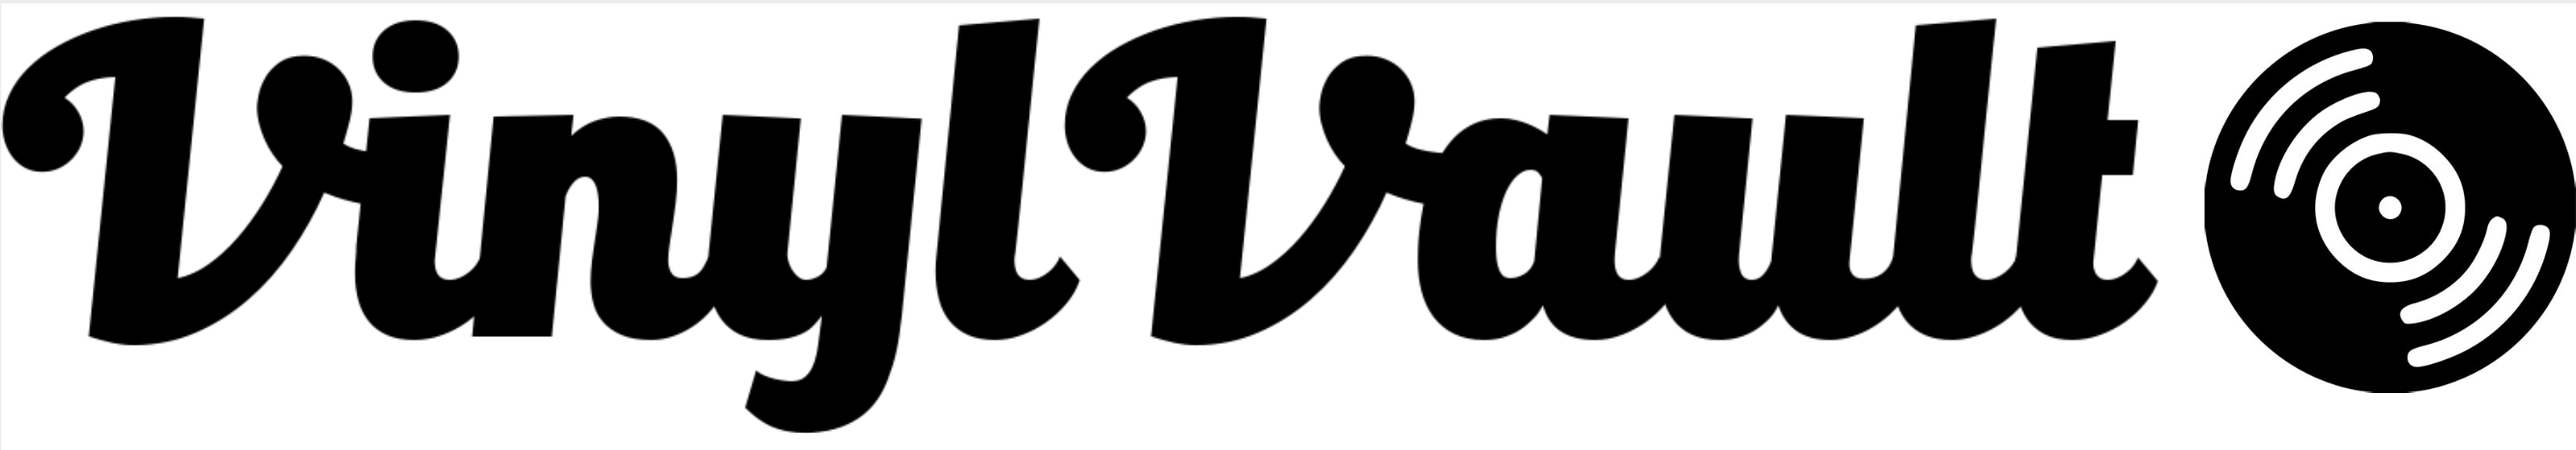
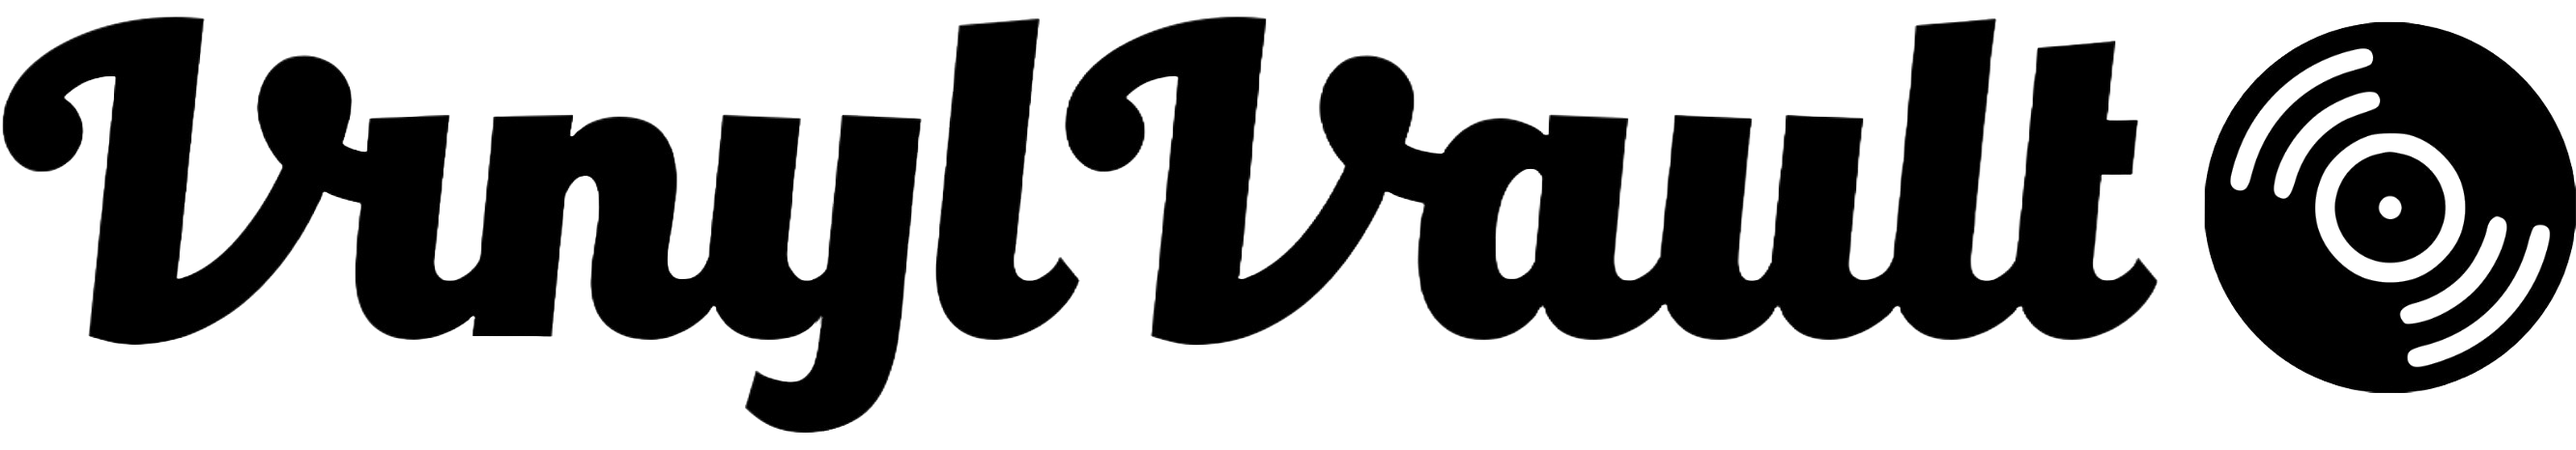
Kept initial background on image for README

Changed region(s): [[0.1245, 0.03, 0.1868, 0.2103], [0.0311, 0.7511, 0.0623, 0.7811]]

diff --git a/README.md b/README.md
@@ -1,5 +1,5 @@
 
-![img](/app/static/images/vinyl_vault.png)
+![img](/app/static/images/vinyl_vault_doc.png)
 
 ## What is VinylVault? 
 **VinylVault** is a web-app designed to help users track and manage their music collections. 
